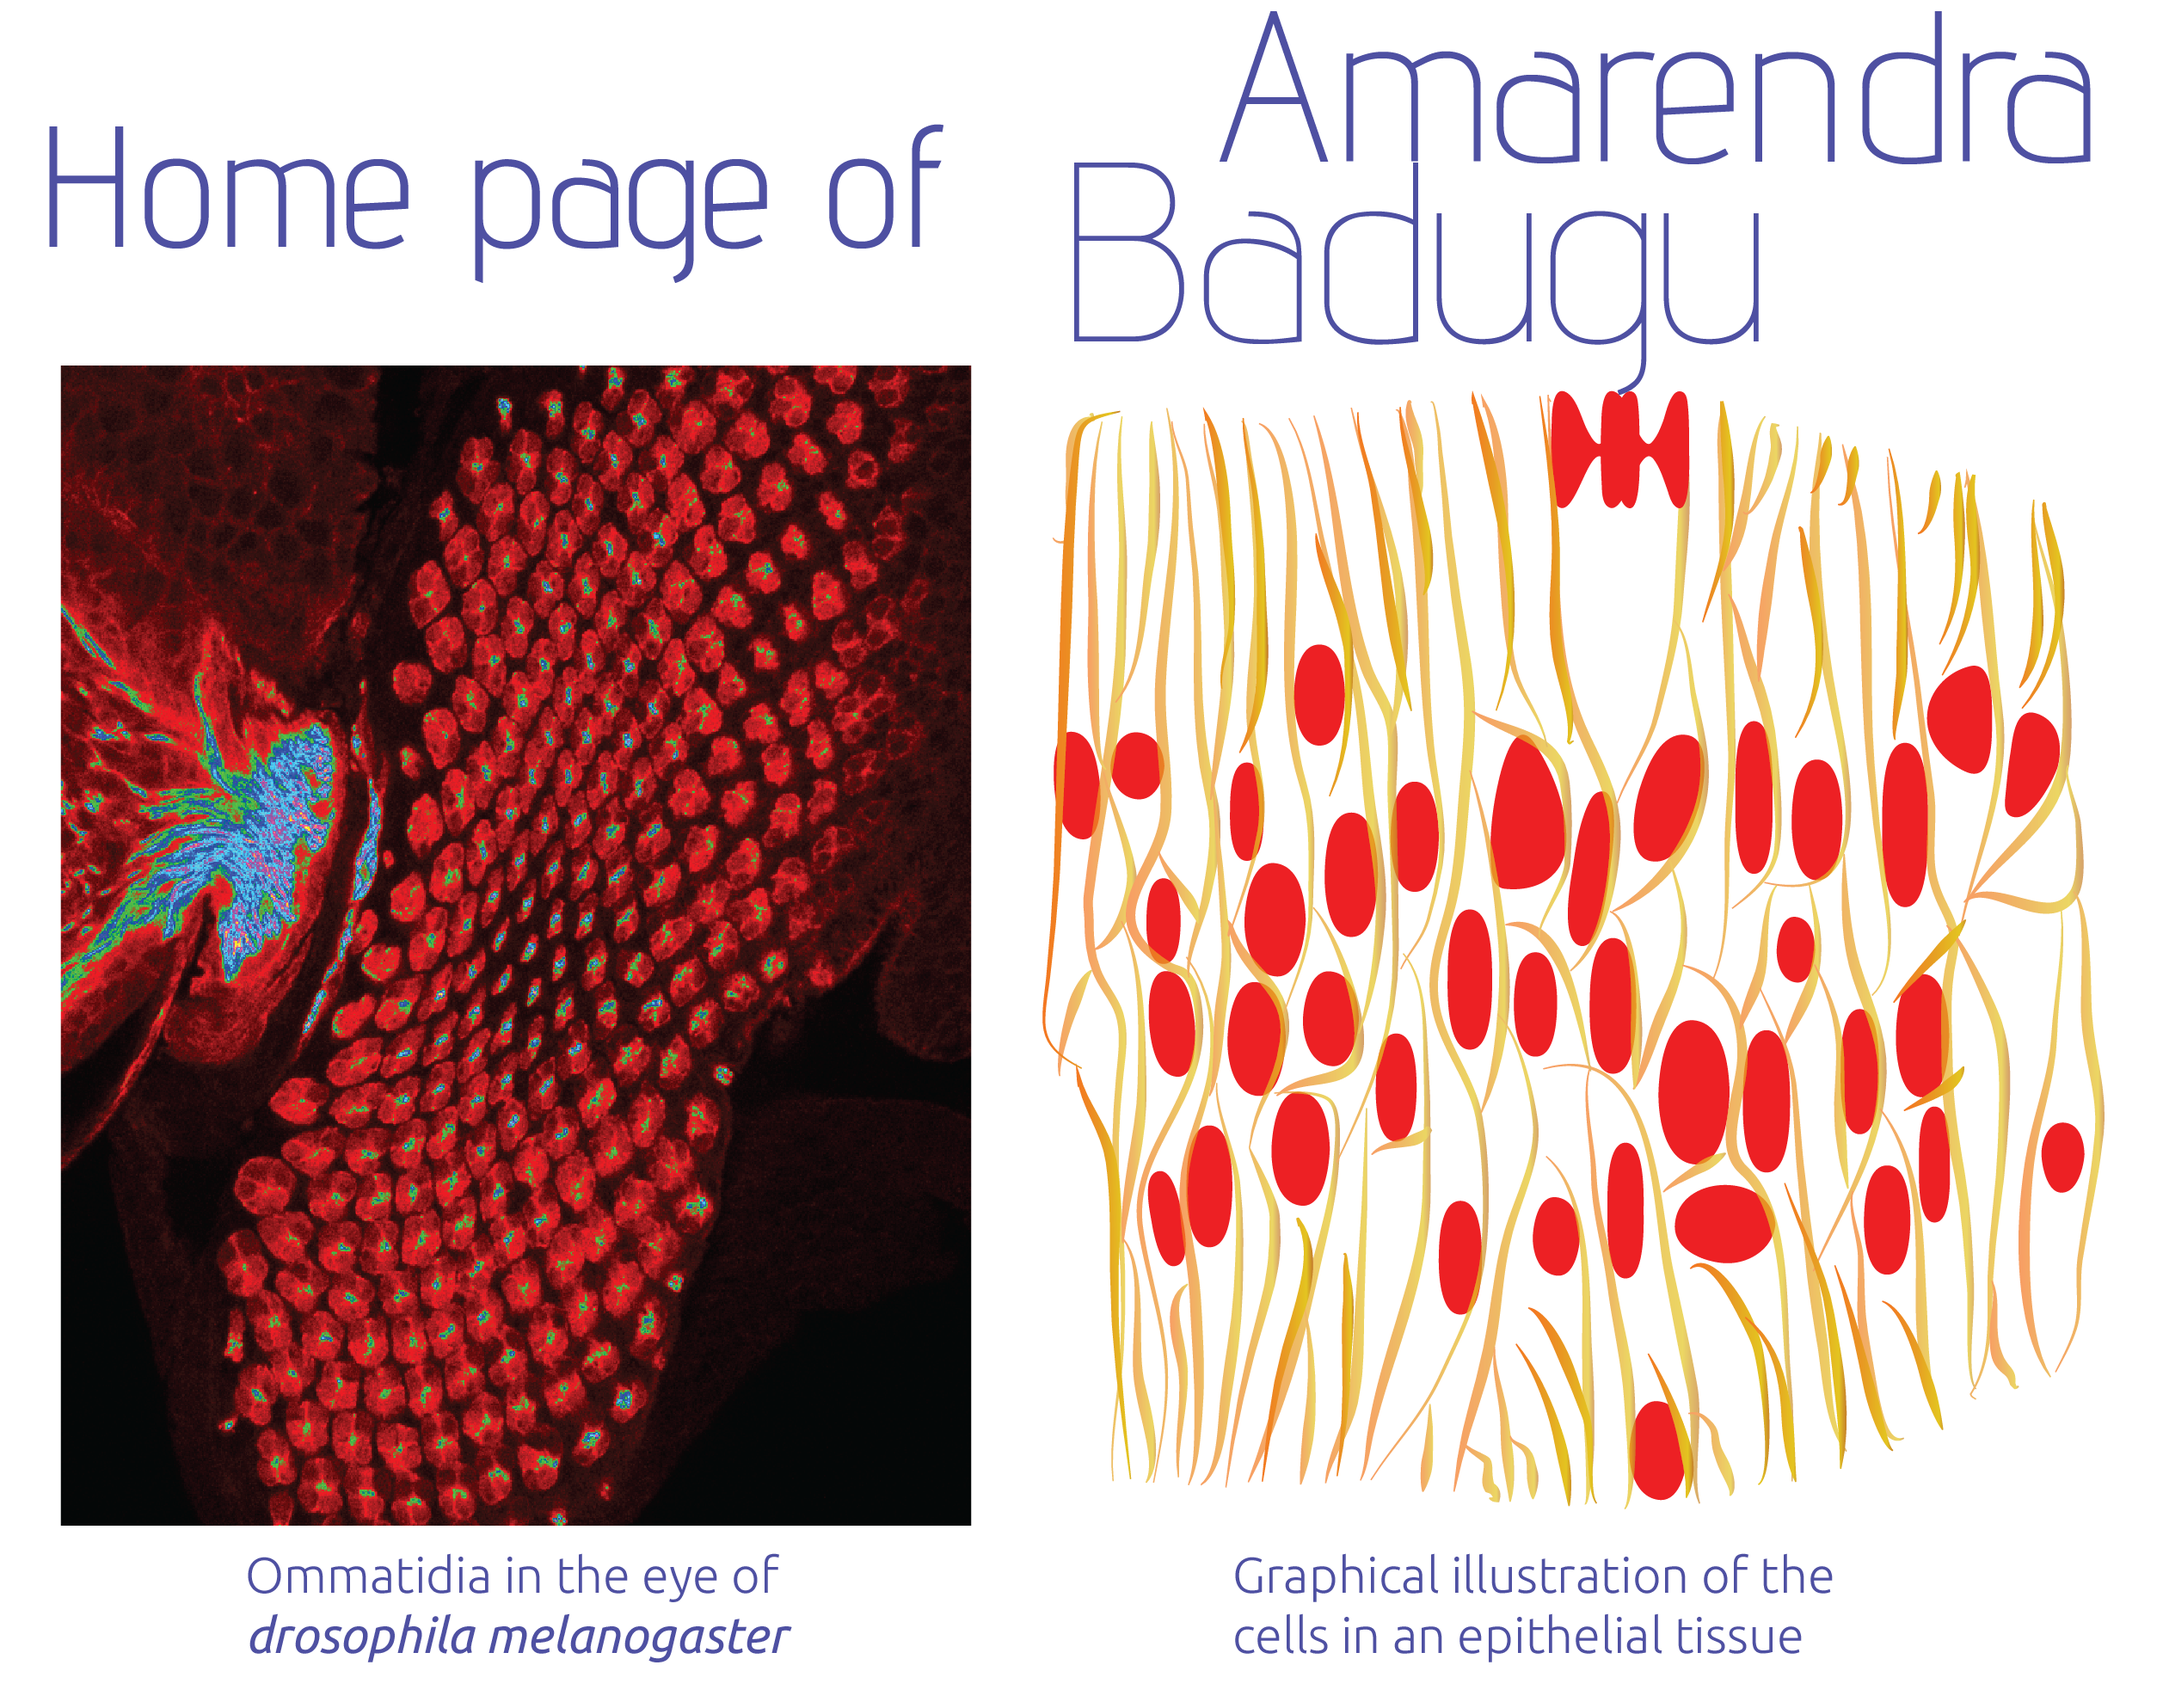
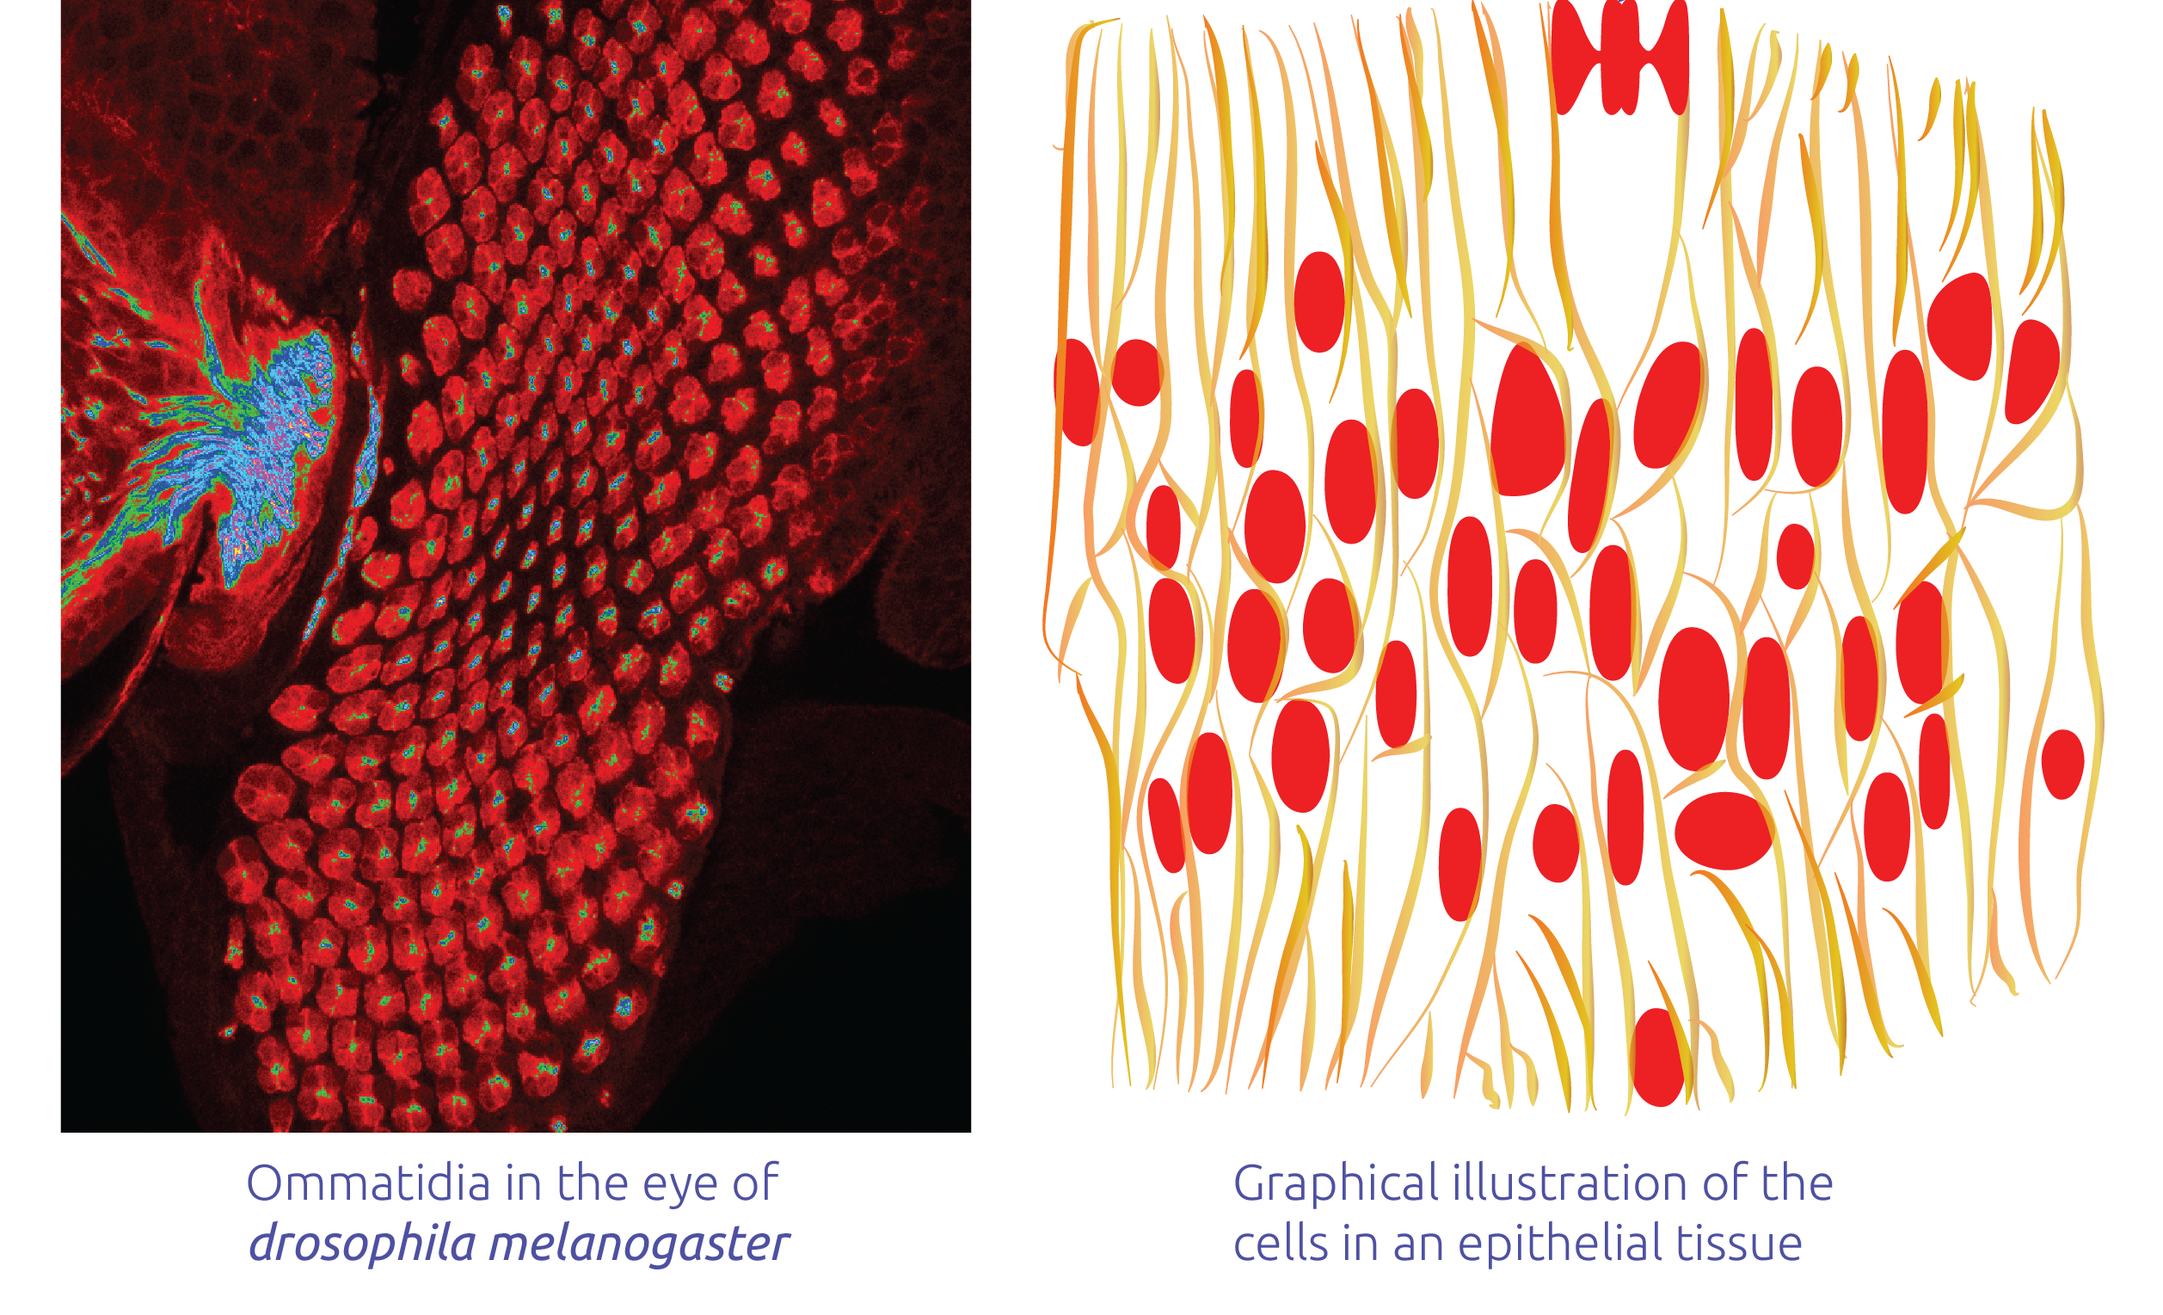
Small changes Titlechange

diff --git a/Gallery.html b/Gallery.html
@@ -82,12 +82,12 @@
                 <a href="/images/micro/eyedisc.gif" title="Eye imaginal disc" data-gallery>
                     <img height=200 width=200 src="/images/micro/eyedisc.gif" alt="Eye disc">
                 </a>
-                <a href="/images/micro/mitoch.png" title="Mitochondria in EM" data-gallery>
+<!--                <a href="/images/micro/mitoch.png" title="Mitochondria in EM" data-gallery>
                     <img height=200 width=200 src="/images/micro/mitoch.png" alt="Eye disc">
                 </a>
                 <a href="/images/micro/junctions.jpg" title="Adherens junction in EM" data-gallery>
                     <img height=200 width=200 src="/images/micro/junctions.jpg" alt="Eye disc">
-                </a>
+                </a>-->
             </div>
         </div>
         <br>
@@ -140,7 +140,7 @@
             <p class="lead"></p>
             <p class="lead"></p>
             <p class="lead"></p>
-            <p>All text and images are subject to Copyright &copy; Amarendra Badugu 2016. </p>
+            <p>All text and images are subject to Copyright &copy; Amarendra Badugu 2016-17. </p>
         </div>
     </footer>
 

diff --git a/arcbio.html b/arcbio.html
@@ -72,7 +72,7 @@
     <div class="container text-right">
         <div class="row">
             <div class="col-sm-12">
-                <h6>Adapted from a scene by <a href="http://3dw.co.uk/">Fabrice Bourrelly</a> </h6>
+           <!-- Footer <h6>Adapted from a scene by <a href="http://3dw.co.uk/">Fabrice Bourrelly</a> </h6> -->    
                 
                  <p class="lead"></p>
                 <p class="lead"></p>
@@ -116,7 +116,7 @@
                 <p class="lead"></p>
                 <p class="lead"></p>
                 <p class="lead"></p>
-                <p>All text and images are subject to Copyright &copy; Amarendra Badugu 2016-18. </p>
+                <p>All text and images are subject to Copyright &copy; Amarendra Badugu 2016-17. </p>
             </div>
         </footer>
 

diff --git a/index.html b/index.html
@@ -57,7 +57,9 @@
     <div class="container">
  <div class="row">
             <div class="col-sm-12">
-
+<p align=center><span style='font-size:48.0pt'>Home page of Amarendra Badugu<o:p></o:p></span></p>
+                <o:p>&nbsp;</o:p>
+                <o:p>&nbsp;</o:p>
         <img src="./images/Photos/main.png" class="img-responsive" alt="Welcome">
                   <p class="lead"></p>
             <p class="lead"></p>
@@ -91,7 +93,7 @@
             <p class="lead"></p>
             <p class="lead"></p>
             <p class="lead"></p>
-            <p>All text and images are subject to Copyright &copy; Amarendra Badugu 2016.</p>
+            <p>All text and images are subject to Copyright &copy; Amarendra Badugu 2016-17.</p>
         </div>
     </footer>
 
